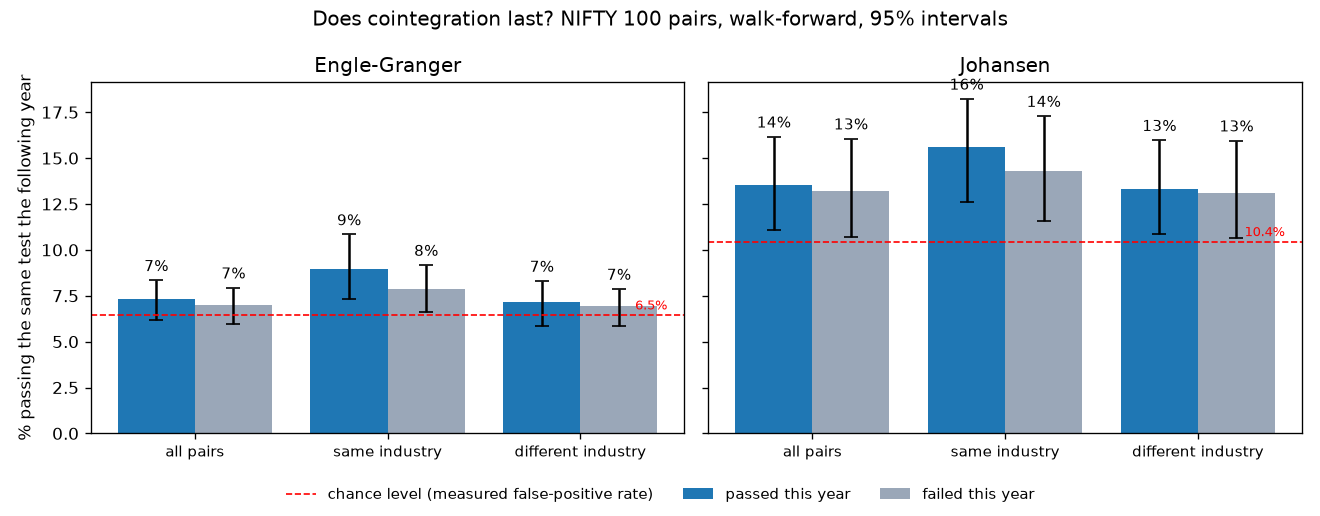
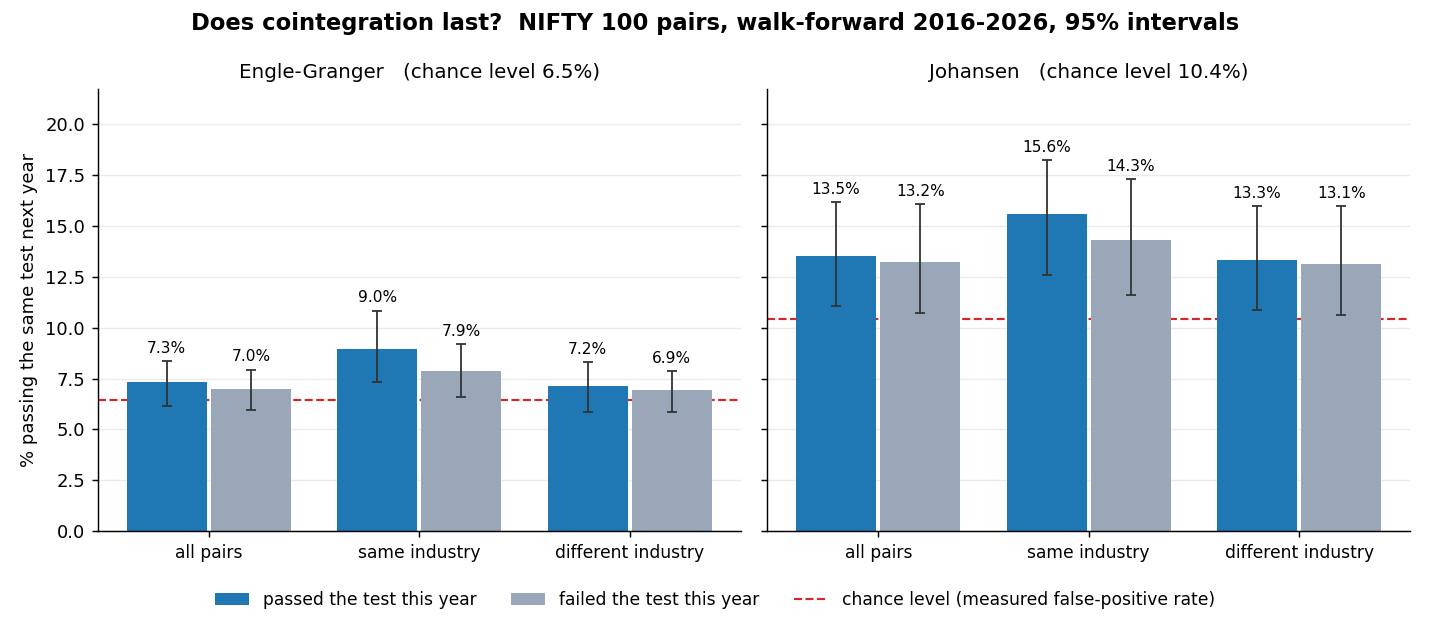
Tidier persistence chart

diff --git a/pairs_nifty100/03_analyse.py b/pairs_nifty100/03_analyse.py
@@ -115,28 +115,34 @@ for test, now, nxt in [("Engle-Granger", "eg_pass", "eg_pass_next"), ("Johansen"
         say(f"    {test:13s} {grp:18s} passed this year {pct(yes)}  failed {pct(no)}  (n = {yes[3]} vs {no[3]})")
 say()
 
-fig, axes = plt.subplots(1, 2, figsize=(11, 4.3), sharey=True)
+fig, axes = plt.subplots(1, 2, figsize=(11, 4.8), sharey=True)
+ymax = max(max(r[2][2], r[3][2]) for r in q2) * 100 + 3.5
 for ax, test in zip(axes, ["Engle-Granger", "Johansen"]):
     rows = [r for r in q2 if r[0] == test]
     x = np.arange(len(rows))
-    for off, k, col, lab in [(-0.2, 2, "#1f77b4", "passed this year"), (0.2, 3, "#9aa7b8", "failed this year")]:
+    ax.axhline(100 * CHANCE[test], color="#d62728", ls="--", lw=1.2, zorder=1,
+               label="chance level (measured false-positive rate)")
+    for off, k, col, lab in [(-0.2, 2, "#1f77b4", "passed the test this year"),
+                             (0.2, 3, "#9aa7b8", "failed the test this year")]:
         est = np.array([r[k][0] for r in rows]) * 100
         err = np.array([[r[k][0] - r[k][1], r[k][2] - r[k][0]] for r in rows]).T * 100
-        ax.bar(x + off, est, 0.4, yerr=err, capsize=4, color=col, label=lab)
+        ax.bar(x + off, est, 0.38, color=col, label=lab, zorder=2)
+        ax.errorbar(x + off, est, yerr=err, fmt="none", ecolor="#333333", elinewidth=1, capsize=3, zorder=3)
         for xi, v, top in zip(x + off, est, est + err[1]):
-            ax.text(xi, top + 0.3, f"{v:.0f}%", ha="center", va="bottom", fontsize=9)
-    ax.axhline(100 * CHANCE[test], color="red", ls="--", lw=1,
-               label="chance level (measured false-positive rate)")
-    ax.text(len(rows) - 0.55, 100 * CHANCE[test] + 0.3, f"{100*CHANCE[test]:.1f}%",
-            color="red", fontsize=8, ha="right")
-    ax.set_xticks(x, [r[1] for r in rows], fontsize=9)
-    ax.set_title(test)
-axes[0].set_ylabel("% passing the same test the following year")
+            ax.text(xi, top + 0.25, f"{v:.1f}%", ha="center", va="bottom", fontsize=8.5)
+    ax.set_xticks(x, [r[1] for r in rows], fontsize=9.5)
+    ax.set_ylim(0, ymax)
+    ax.set_title(f"{test}   (chance level {100*CHANCE[test]:.1f}%)", fontsize=11)
+    ax.grid(axis="y", alpha=0.25, zorder=0)
+    ax.spines[["top", "right"]].set_visible(False)
+axes[0].set_ylabel("% passing the same test next year")
 handles, labels_ = axes[0].get_legend_handles_labels()
-fig.legend(handles, labels_, loc="lower center", ncol=3, fontsize=9, frameon=False)
-fig.suptitle("Does cointegration last? NIFTY 100 pairs, walk-forward, 95% intervals")
+fig.legend(handles[1:] + handles[:1], labels_[1:] + labels_[:1], loc="lower center", ncol=3,
+           fontsize=9.5, frameon=False)
+fig.suptitle("Does cointegration last?  NIFTY 100 pairs, walk-forward 2016-2026, 95% intervals",
+             fontsize=12.5, weight="bold")
 fig.tight_layout(rect=[0, 0.07, 1, 1])
-fig.savefig("02_persistence.png", dpi=120)
+fig.savefig("02_persistence.png", dpi=130)
 plt.close(fig)
 
 # ---------------------------------------------------------------- Q3
